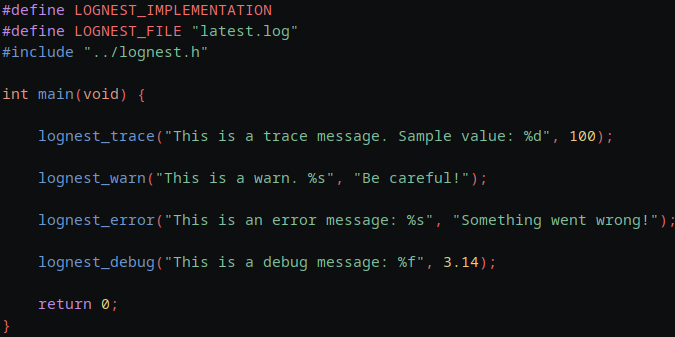
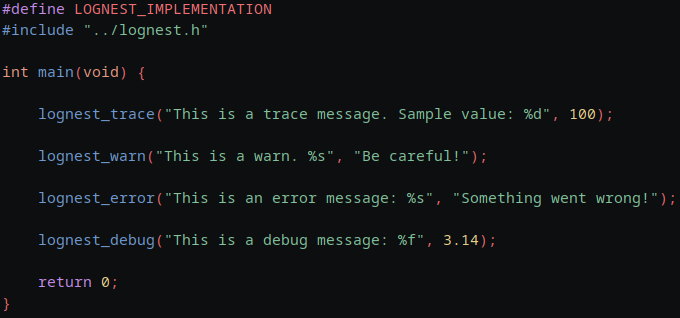
fix design issue

diff --git a/lognest.h b/lognest.h
@@ -1,3 +1,11 @@
+/* Copyright 2024 LeaoMartelo2 (https://github.com/LeaoMartelo2)
+
+Permission is hereby granted, free of charge, to any person obtaining a copy of this software and associated documentation files (the “Software”), to deal in the Software without restriction, including without limitation the rights to use, copy, modify, merge, publish, distribute, sublicense, and/or sell copies of the Software, and to permit persons to whom the Software is furnished to do so, subject to the following conditions:
+
+The above copyright notice and this permission notice shall be included in all copies or substantial portions of the Software.
+
+THE SOFTWARE IS PROVIDED “AS IS”, WITHOUT WARRANTY OF ANY KIND, EXPRESS OR IMPLIED, INCLUDING BUT NOT LIMITED TO THE WARRANTIES OF MERCHANTABILITY, FITNESS FOR A PARTICULAR PURPOSE AND NONINFRINGEMENT. IN NO EVENT SHALL THE AUTHORS OR COPYRIGHT HOLDERS BE LIABLE FOR ANY CLAIM, DAMAGES OR OTHER LIABILITY, WHETHER IN AN ACTION OF CONTRACT, TORT OR OTHERWISE, ARISING FROM, OUT OF OR IN CONNECTION WITH THE SOFTWARE OR THE USE OR OTHER DEALINGS IN THE SOFTWARE. */
+
 #ifndef LOGNEST_H_
 #define LOGNEST_H_
 
@@ -5,6 +13,11 @@
 #include <stdio.h>
 #include <string.h>
 #include <time.h>
+
+/* CHANGE WHERE THE LOGS GETS SENT
+ * DEFAULT VALUE: "latest.log"
+ * (PATH RELACTIVE TO THE EXECUTABLE)*/
+#define LOGNEST_FILE "latest.log"
 
 #define TIMESTAMP_BUFFER_MAX_SIZE 2048
 

diff --git a/examples/usage.c b/examples/usage.c
@@ -1,5 +1,4 @@
 #define LOGNEST_IMPLEMENTATION
-#define LOGNEST_FILE "latest.log"
 #include "../lognest.h"
 
 int main(void) {

diff --git a/README.md b/README.md
@@ -9,13 +9,14 @@
 ```
 wget https://raw.githubusercontent.com/LeaoMartelo2/LogNest/main/lognest.h
 ```
+<sub>just copy this if you are lazy</sub>
 
 ## Usage:
 
-- Just grab the `lognest.h` file and add it to your project.
-- You need to remember that only including the file serves as forward declaring/API.
+- Download `lognest.h` and add it to your project.
 - For the library to serve as implementation, add: `#define LOGNEST_IMPLEMENTATION` before the `#include`.
-- This also means you should only define the implementation in one file.
-- Remember to also `#define LOGNEST_FILE "your/file/path/here.log"` before including it.
+- This also means you should only define the implementation in one file. Just including it serves as a header.
+- Optionally cuztomize the output path in `lognest.h`, by changing `#define LOGNEST_FILE "your/custom/path"`
+- The path is relative to the executable
 
 ![image](images/usage2.png)
